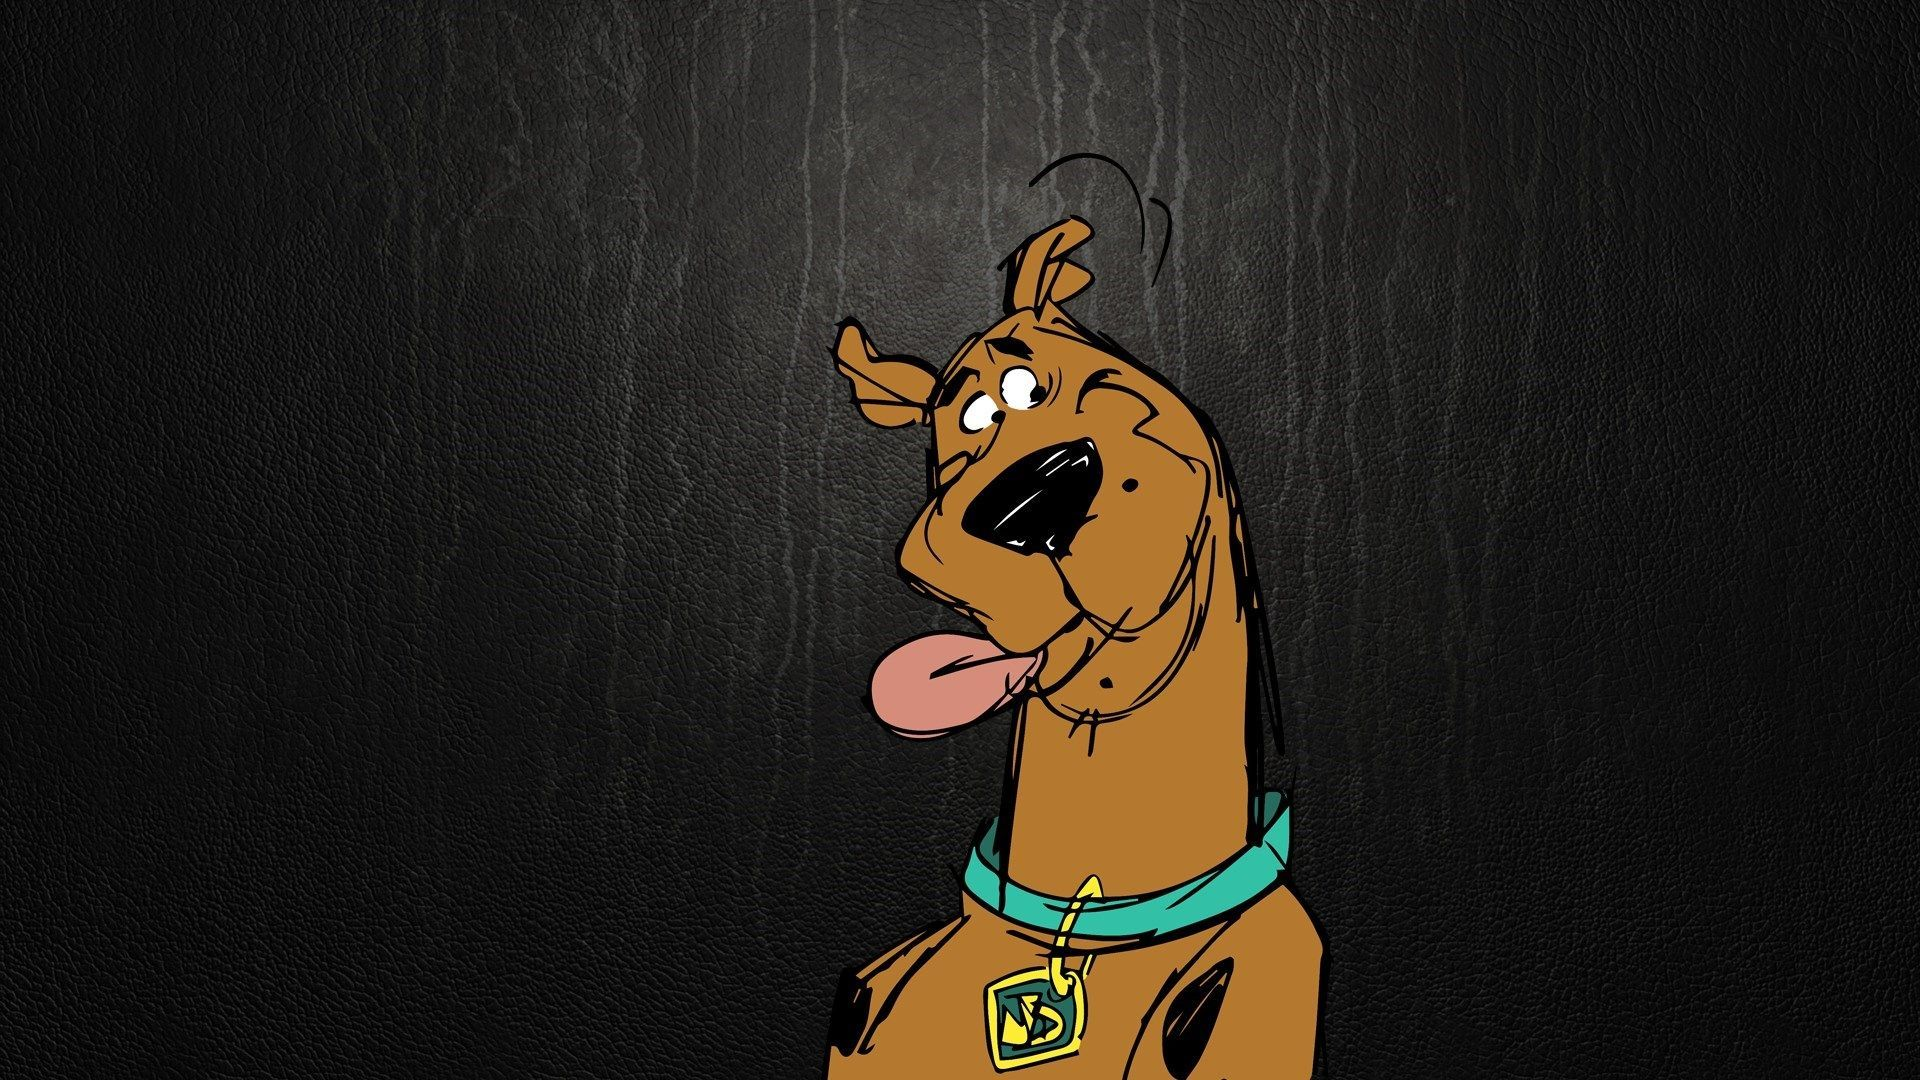
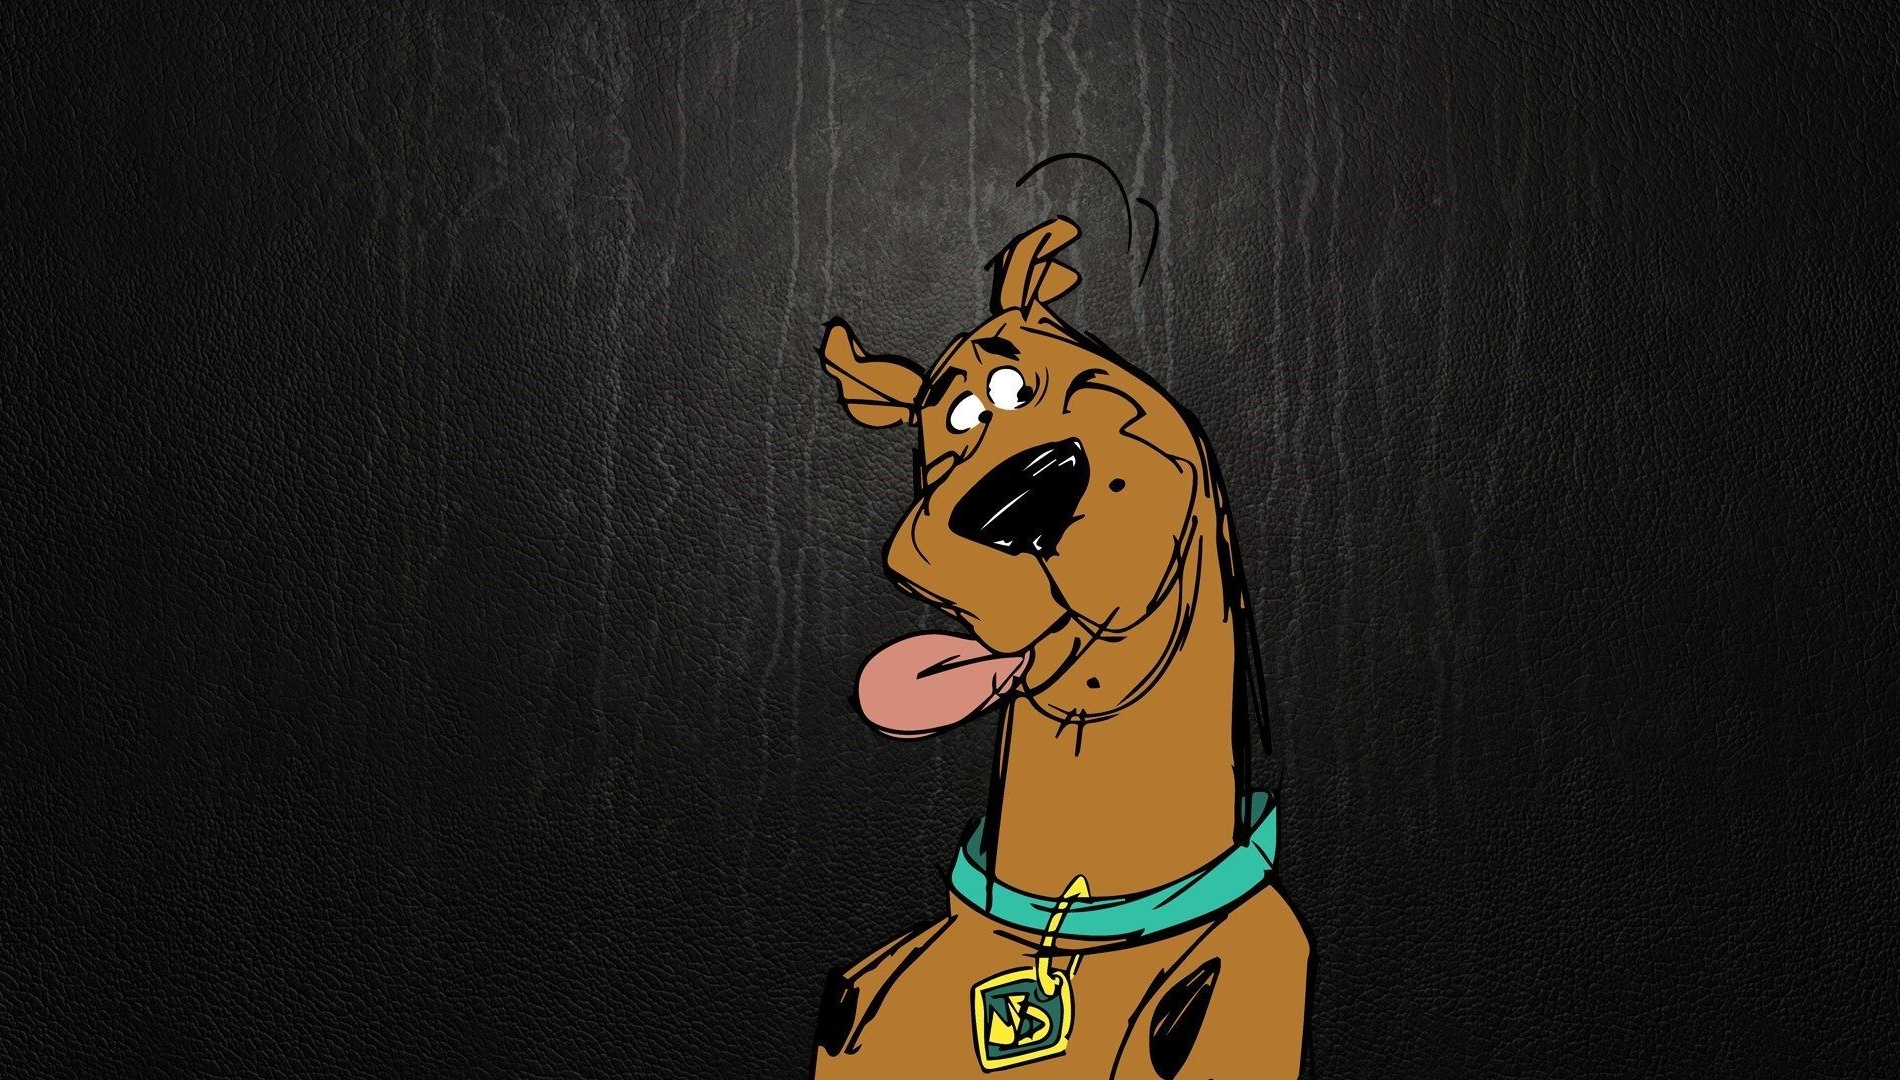
Update css

diff --git a/index.html b/index.html
@@ -117,26 +117,26 @@
         <div class="carousel-inner" role="listbox">
           <!-- Slide One - Set the background image for this slide in the line below -->
           <div class="carousel-item active" >
-          	<img class="d-block w-100" src="images/one-piece.jpg">
+          	<img class="d-block w-100" src="images/doraemon-2.jpg">
             <div class="carousel-caption d-none d-md-block">
-              <h3>First Slide</h3>
-              <p>This is a description for the first slide.</p>
+              <h3>DORAEMON</h3>
+              <p>Fujiko F. Fujio</p>
             </div>
           </div>
           <!-- Slide Two - Set the background image for this slide in the line below -->
           <div class="carousel-item" >
-           <img class="d-block w-100" src="images/fiora.png">
+           <img class="d-block w-100" src="images/Scooby-Doo-Images-Wallpapers-001.jpg">
             <div class="carousel-caption d-none d-md-block">
-              <h3>Second Slide</h3>
-              <p>This is a description for the second slide.</p>
+              <h3>SCOOBY DOO</h3>
+              <p> Iwao Takamoto</p>
             </div>
           </div>
           <!-- Slide Three - Set the background image for this slide in the line below -->
           <div class="carousel-item" >
-           <img class="d-block w-100" src="images/beauty.png">
+           <img class="d-block w-100" src="images/comics-marvel-comics-marvel-new-mutants-wallpaper-1.jpg">
             <div class="carousel-caption d-none d-md-block">
-              <h3>Third Slide</h3>
-              <p>This is a description for the third slide.</p>
+              <h3>DEADPOOL</h3>
+              <p>Marvel</p>
             </div>
           </div>
         </div>

diff --git a/css/gam-comic.css b/css/gam-comic.css
@@ -201,3 +201,16 @@ section {
 	color:black;
 }
 
+.carousel-caption{
+    background: rgba(0,0,0,0.5);
+}
+
+.carousel img {
+  position: absolute;
+  top: 0;
+  left: 0;
+  min-width: 100%;
+  height: 500px;
+  max-width: none;
+}
+
